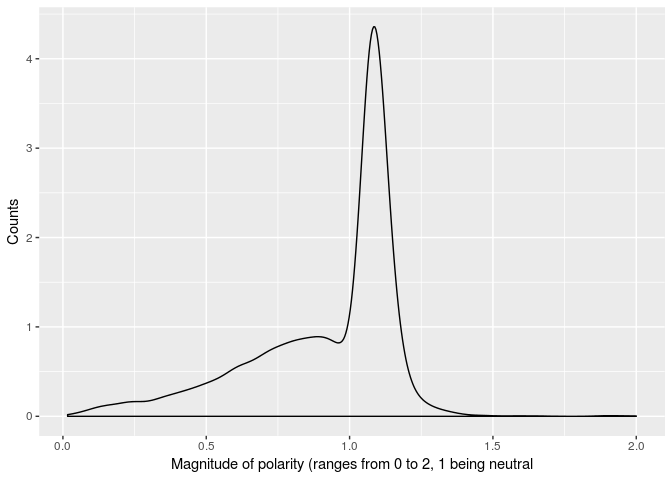
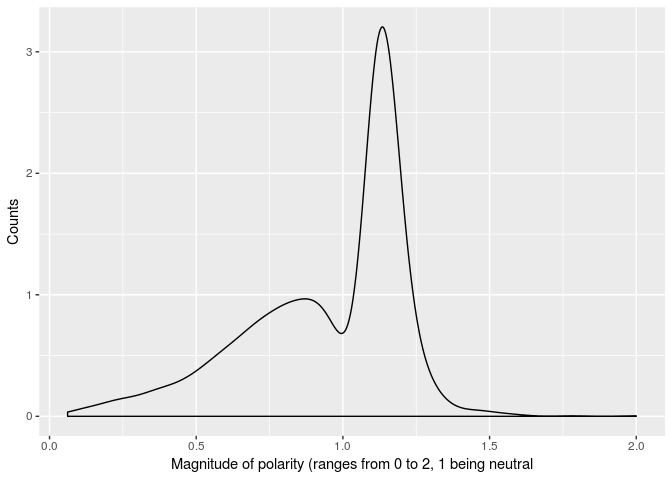
updated high frequency words

diff --git a/SentPred_9.md b/SentPred_9.md
@@ -80,7 +80,7 @@ Neg_VocabList <- gsub("[^[:alnum:] ]", "", Neg_VocabList)
 Neg_VocabList <- tolower(Neg_VocabList)
 Neg_VocabList_Freq <- table(Neg_VocabList)
 #### Find pos neg differences ####
-HighVocabFreq <- VocabFreq[which(VocabFreq > 100)]
+HighVocabFreq <- VocabFreq[which(VocabFreq > 200)]
 WordsOfInterest <- names(HighVocabFreq)
 WordDiffs.df <- as.data.frame (matrix(nrow = length(WordsOfInterest), ncol = 2))
 colnames(WordDiffs.df) <- c("Word", "Freq_Diff")
@@ -267,11 +267,6 @@ p2
 ```
 
 ![](SentPred_9_files/figure-markdown_github/unnamed-chunk-5-1.png)
-
-``` r
-#p2 <- p1
-#p2
-```
 
 These plots show quite clearly that the news media outlets differ quite drastically in the sentiment of their stories.
 
